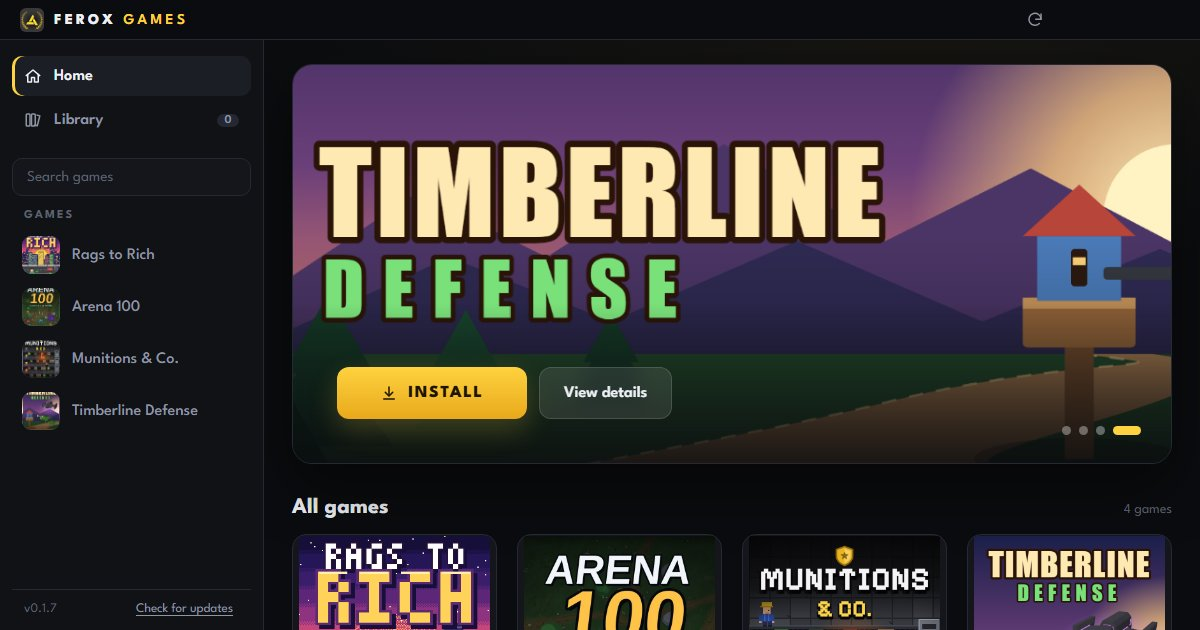
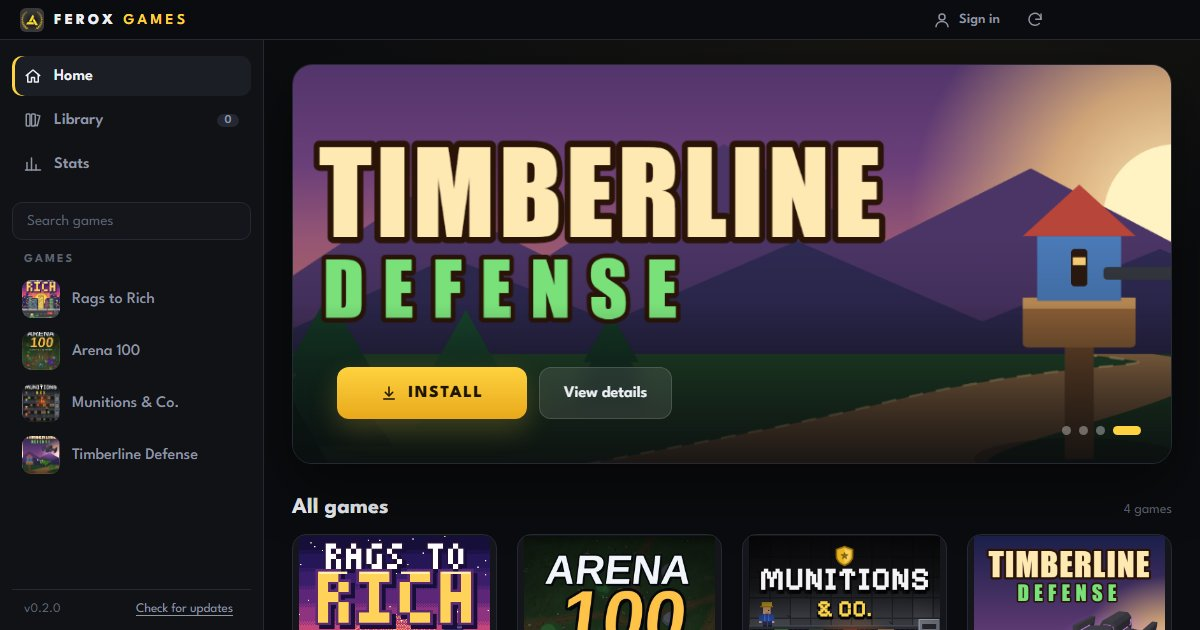
Download page: launcher 0.2.0

Changed region(s): [[0.0, 0.3317, 0.1542, 0.754], [0.0, 0.2413, 0.0925, 0.3016], [0.8017, 0.0, 0.8325, 0.0603]]

diff --git a/index.html b/index.html
@@ -42,11 +42,11 @@
           <h1>Every FeroxGames game in one place.</h1>
           <p class="lede">Install any game with one click and play it from the launcher. It updates itself, and it tells you when a game has a new version.</p>
 
-          <a class="download" href="https://github.com/FeroxGames/ferox-games/releases/download/launcher/Ferox-Launcher-Setup-0.1.7.exe">
+          <a class="download" href="https://github.com/FeroxGames/ferox-games/releases/download/launcher/Ferox-Launcher-Setup-0.2.0.exe">
             <svg viewBox="0 0 24 24" aria-hidden="true"><path d="M12 4v11" /><path d="m7 11 5 5 5-5" /><path d="M5 20h14" /></svg>
             Download for Windows
           </a>
-          <p class="spec">Free · Version 0.1.7 · 116 MB · Windows 10 or 11</p>
+          <p class="spec">Free · Version 0.2.0 · 116 MB · Windows 10 or 11</p>
           <p class="not-windows" id="not-windows" hidden>The launcher only runs on Windows PCs for now. Open this page on a Windows PC to install it.</p>
           <p class="hint">Windows may warn you about the installer. <a href="#install">Here's what to do.</a></p>
         </div>
@@ -101,7 +101,7 @@
           </li>
         </ol>
 
-        <a class="download" href="https://github.com/FeroxGames/ferox-games/releases/download/launcher/Ferox-Launcher-Setup-0.1.7.exe">
+        <a class="download" href="https://github.com/FeroxGames/ferox-games/releases/download/launcher/Ferox-Launcher-Setup-0.2.0.exe">
           <svg viewBox="0 0 24 24" aria-hidden="true"><path d="M12 4v11" /><path d="m7 11 5 5 5-5" /><path d="M5 20h14" /></svg>
           Download for Windows
         </a>
@@ -112,9 +112,9 @@
           <details>
             <summary>Check your download</summary>
             <p>If you want to be sure the file is intact, its SHA-256 checksum should be:</p>
-            <code>89eef6b4453ff8482cef9257c792fe8c1c878025b6664fa1de9696ef3a24029a</code>
+            <code>5e2087c6b8f529bc122a85312440703d6241b3025ff9f4031465cf1ab475a26c</code>
             <p>To see your file's checksum, run this in PowerShell:</p>
-            <code>Get-FileHash "$env:USERPROFILE\Downloads\Ferox-Launcher-Setup-0.1.7.exe"</code>
+            <code>Get-FileHash "$env:USERPROFILE\Downloads\Ferox-Launcher-Setup-0.2.0.exe"</code>
           </details>
         </div>
       </section>
